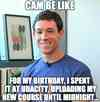
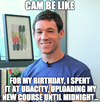
resize pics

diff --git a/index.html b/index.html
@@ -1,1 +1,1 @@
-<!DOCTYPE html><html lang=en><meta charset=utf-8><meta content="width=device-width,initial-scale=1"name=viewport><meta content=" FILL ME IN "name=description><meta content=" FILL ME IN "name=author><title>Cameron Pittman: Portfolio</title><style>.hero,footer{border-top:1px solid #ccc}footer span,li p{font-style:italic}html{font-size:100%;font-family:sans-serif;overflow-y:scroll;-webkit-tap-highlight-color:transparent;-ms-text-size-adjust:100%;-webkit-text-size-adjust:none}body{margin:0;font-size:14px;line-height:1.61;font-weight:400;background:#fff}b,header p,strong{font-weight:700}body,button,input,select,textarea{font-family:'Open Sans',sans-serif;color:#333}a{color:#12c}a:visited{color:#61c}a:focus{outline:dotted thin}a:active,a:hover{color:#c00;outline:0}code,pre{font-family:monospace,monospace;font-size:1em}ol,ul{margin:1em 0;padding:0 0 0 20px}img{border:0;max-width:100%}.container,footer,header{max-width:45em;margin:0 auto}header{padding:0 .5em;color:#c90b0b}header img{border-radius:40px;float:left}header p{font-size:1.5em;padding-left:4em}header p span{font-size:.8em;font-weight:400}.hero{padding:2em;background-color:#f8f8f8;font-size:1.2em;border-bottom:1px solid #ccc}.content{padding:1em}.content li{list-style-type:none;font-size:1.1em}li img{float:left;padding-right:1em}li p{font-size:.9em}footer{padding:0 .5em}footer span{float:right}@media only screen and (max-width:480px){body{font-size:12px}header p{padding-left:4.5em}}</style><link href=css/print.css media=print rel=stylesheet><script>!function(e,n){e.GoogleAnalyticsObject=n,e[n]=e[n]||function(){(e[n].q=e[n].q||[]).push(arguments)},e[n].l=1*new Date}(window,"ga"),ga("create","UA-XXXX-Y"),ga("send","pageview")</script><script async src=http://www.google-analytics.com/analytics.js></script><script async src=js/perfmatters.js></script><header><a href=/ ><img src=img/profilepic.jpg></a><p>Cameron Pittman<br><span>Course Developer</span></header><div class=container><div class=hero><strong>I love web development!</strong> This is a template for a simple portfolio. I decided to use it to showcase a few Udacity courses I've taken and some teaching work, but you can use it to showcase any kind of project that you want the world to see :)<br>Contact me: me@email.com</div><div class=content><ul><li><img src="img/2048.jpg"> <a href=project-2048.html>Build Your Own 2048!</a><p>I made my own version of 2048. How cool is that!?<li><img src="img/webdev.jpg"> <a href=project-webperf.html>Website Performance Optimization</a><p>Hey... this class looks familiar.<li><img src="img/mobwebdev.jpg"> <a href=project-mobile.html>Mobile Web Development</a><p>Making mobile apps isn't so hard after all.<li><img src=img_optmzd/pizzeria-100_mobile_1x.jpg style=width:100px> <a href=views/pizza.html>Cam's Pizzeria</a><p>Who wants a performant pizza?</ul></div><footer><p>© Web Performance 2014 <span id=crp-stats></span></footer></div>
+<!DOCTYPE html><html lang=en><meta charset=utf-8><meta content="width=device-width,initial-scale=1"name=viewport><meta content=" FILL ME IN "name=description><meta content=" FILL ME IN "name=author><title>Cameron Pittman: Portfolio</title><style>.hero,footer{border-top:1px solid #ccc}footer span,li p{font-style:italic}html{font-size:100%;font-family:sans-serif;overflow-y:scroll;-webkit-tap-highlight-color:transparent;-ms-text-size-adjust:100%;-webkit-text-size-adjust:none}body{margin:0;font-size:14px;line-height:1.61;font-weight:400;background:#fff}b,header p,strong{font-weight:700}body,button,input,select,textarea{font-family:'Open Sans',sans-serif;color:#333}a{color:#12c}a:visited{color:#61c}a:focus{outline:dotted thin}a:active,a:hover{color:#c00;outline:0}code,pre{font-family:monospace,monospace;font-size:1em}ol,ul{margin:1em 0;padding:0 0 0 20px}img{border:0;max-width:100%}.container,footer,header{max-width:45em;margin:0 auto}header{padding:0 .5em;color:#c90b0b}header img{border-radius:40px;float:left}header p{font-size:1.5em;padding-left:4em}header p span{font-size:.8em;font-weight:400}.hero{padding:2em;background-color:#f8f8f8;font-size:1.2em;border-bottom:1px solid #ccc}.content{padding:1em}.content li{list-style-type:none;font-size:1.1em}li img{float:left;padding-right:1em}li p{font-size:.9em}footer{padding:0 .5em}footer span{float:right}@media only screen and (max-width:480px){body{font-size:12px}header p{padding-left:4.5em}}</style><link href=css/print.css media=print rel=stylesheet><script>!function(e,n){e.GoogleAnalyticsObject=n,e[n]=e[n]||function(){(e[n].q=e[n].q||[]).push(arguments)},e[n].l=1*new Date}(window,"ga"),ga("create","UA-XXXX-Y"),ga("send","pageview")</script><script async src=http://www.google-analytics.com/analytics.js></script><script async src=js/perfmatters.js></script><header><a href=/ ><img src=img/profilepic.jpg></a><p>Cameron Pittman<br><span>Course Developer</span></header><div class=container><div class=hero><strong>I love web development!</strong> This is a template for a simple portfolio. I decided to use it to showcase a few Udacity courses I've taken and some teaching work, but you can use it to showcase any kind of project that you want the world to see :)<br>Contact me: me@email.com</div><div class=content><ul><li><img src="img_optmzd/2048-100_mobile.jpg"> <a href=project-2048.html>Build Your Own 2048!</a><p>I made my own version of 2048. How cool is that!?<li><img src="img_optmzd/webdev-100_mobile.jpg"> <a href=project-webperf.html>Website Performance Optimization</a><p>Hey... this class looks familiar.<li><img src="img_optmzd/mobwebdev-100_mobile.jpg"> <a href=project-mobile.html>Mobile Web Development</a><p>Making mobile apps isn't so hard after all.<li><img src=img_optmzd/pizzeria-200_mobile_2x.jpg style=width:100px> <a href=views/pizza.html>Cam's Pizzeria</a><p>Who wants a performant pizza?</ul></div><footer><p>© Web Performance 2014 <span id=crp-stats></span></footer></div>

diff --git a/Gruntfile.js b/Gruntfile.js
@@ -13,12 +13,7 @@ module.exports = function(grunt) {
       dev: {
         options: {
           engine: 'gm',
-          sizes: [{
-            /* Change these */
-            width: 1600,
-            suffix: '_large_2x',
-            quality: 30
-          },
+          sizes: [
           {
             /* Change these */
             width: 800,
@@ -35,6 +30,13 @@ module.exports = function(grunt) {
             /* Change these */
             width: 100,
             suffix: '_mobile',
+            quality: 100
+          },
+          ,
+          {
+            /* Change these */
+            width: 200,
+            suffix: '_mobile_2x',
             quality: 30
           }]
         },
@@ -55,7 +57,7 @@ module.exports = function(grunt) {
     /* Clear out the images directory if it exists */
     clean: {
       dev: {
-        src: ['images'],
+        src: ['img_optmzd'],
       },
     },
 
@@ -63,7 +65,7 @@ module.exports = function(grunt) {
     mkdir: {
       dev: {
         options: {
-          create: ['images']
+          create: ['img_optmzd']
         },
       },
     },
